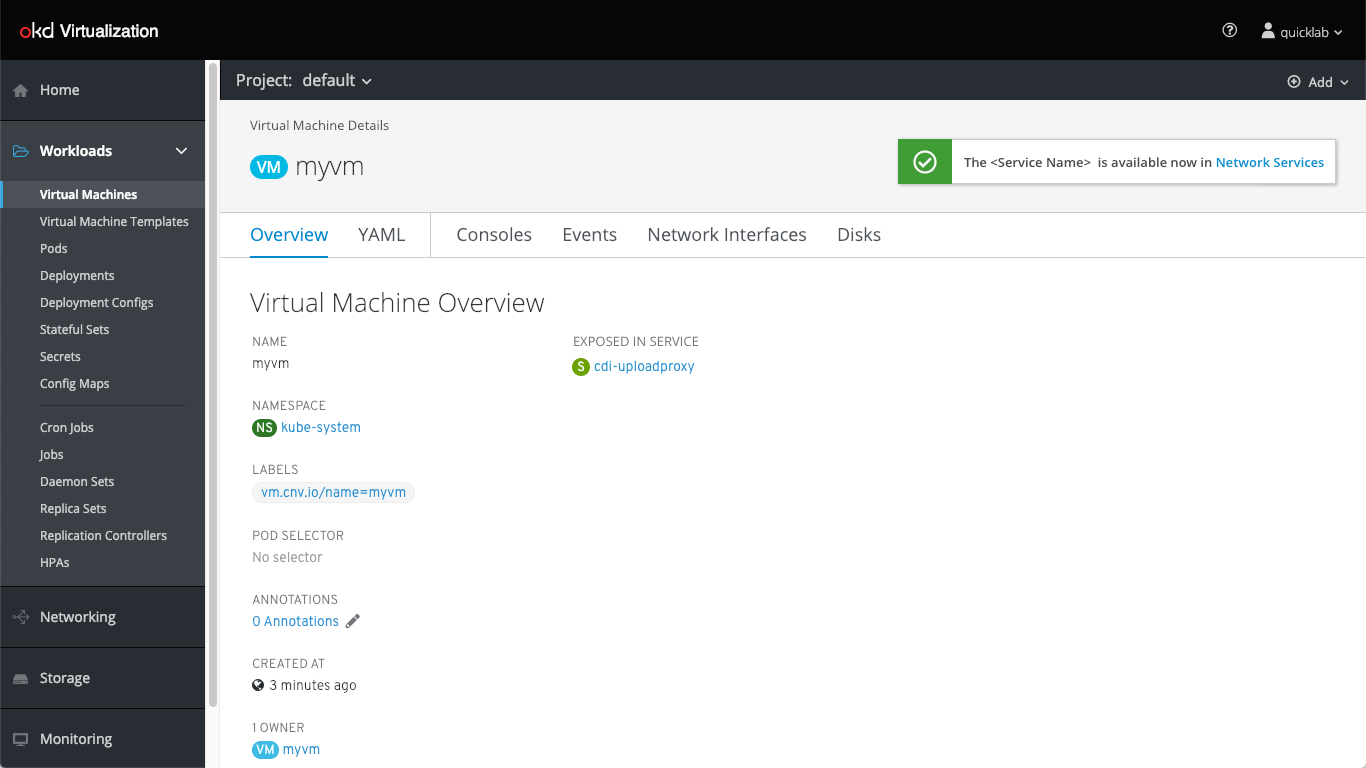
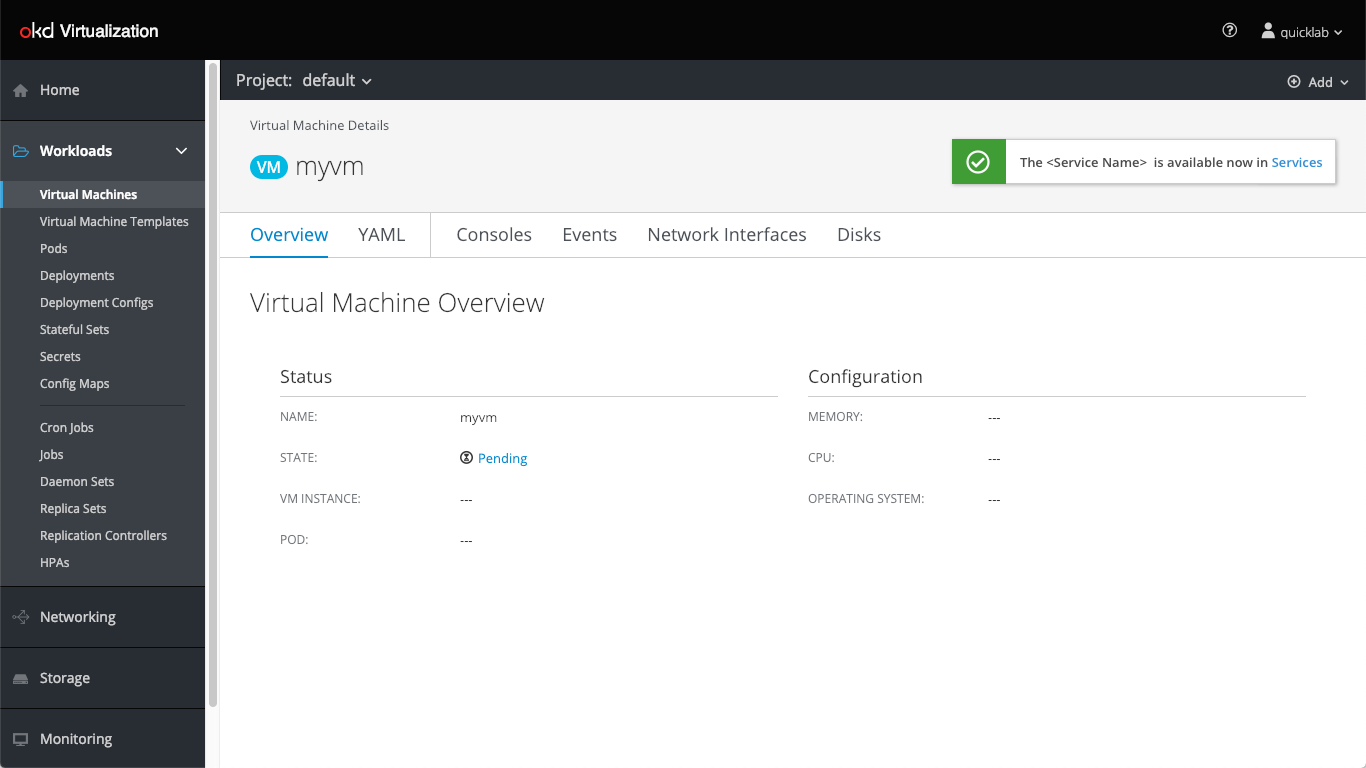
changes-in-expose-vm-as-a-service

diff --git a/README.md b/README.md
@@ -32,11 +32,13 @@ Access design documentation specific to the KNI and KubeVirt features in OpenShi
 ### KubeVirt (Virtualization in OpenShift)
 - Create VM
 - Clone VM
+- Expose Secret, CM and SA as Disks
+- [Expose VM as a Service](http://openshift.github.io/openshift-origin-design/web-console/knikubevirt/expose-vm-as-a-service/expose-vm-as-a-service)
+- Link between PVC and VM Disk
 - Migrate VM
 - [VM List](http://openshift.github.io/openshift-origin-design/web-console/knikubevirt/vm-list/vm-list)
 - VM Details
 - VM Console
-
 
 ## OpenShift 4.0 Designs
 Access design documentation for features slotted in the 4.0 release of OpenShift. Click links below for specific section details.
